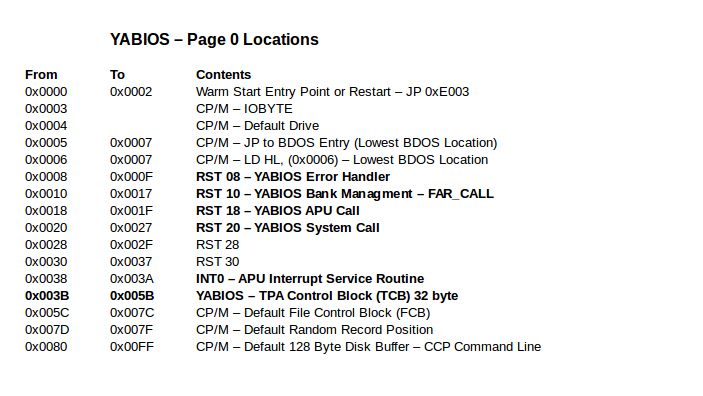
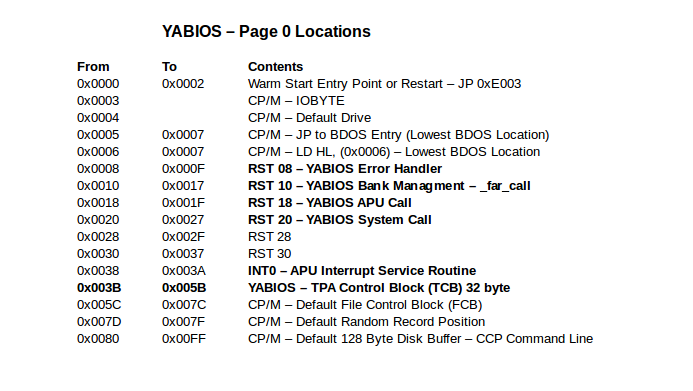
squash CA1 to 4kB

Changed region(s): [[0.0303, 0.1535, 0.8788, 0.89], [0.1515, 0.0614, 0.5455, 0.1228]]

diff --git a/yabios/README.MD b/yabios/README.MD
@@ -8,7 +8,7 @@ It is my attempt to create a perfect mix of "ancient" and  modern computing tech
 
 The YAZ180 is supported by the Z88dk and it is designed to work with both traditional CP/M v2.2 applications and modern Z88dk C compiled applications.
 
-The YABIOS supports CP/M 2.2 Page 0 compatibility, with an underlying Fat32 File System, and allows access to Z88dk libraries, with APU, FatFs, and time libraries, through the use of `RST+DEFB` or `RST+DEFW` short calls, and will include a `__far_call` capability to allow applications to grow beyond 56kB.
+The YABIOS supports CP/M 2.2 Page 0 compatibility, with an underlying Fat32 File System, and allows access to Z88dk libraries, with APU, FatFs, and time libraries, through the use of `RST+DEFB` or `RST+DEFW` short calls, and will include a `_far_call` capability to allow applications to grow beyond 60kB.
 
 ## Design Concept
 
@@ -34,13 +34,13 @@ The location of the `RST` short calls is defined within the YABIOS Page 0.
 </table>
 </div>
 
-As the YAZ180 has multiple BANK locations in which to run an application, one design goal is to minimise (remove) dependency on the application being loaded into a particular BANK. This will require the development of BANK relative addressing for `__far_call` and other system functionalities, if an application is to be larger than 56kB, or is to be independent of its initial BANK location.
+As the YAZ180 has multiple BANK locations in which to run an application, one design goal is to minimise (remove) dependency on the application being loaded into a particular BANK. This will require the development of BANK relative addressing for `_far_call` and other system functionalities, if an application is to be larger than 60kB, or is to be independent of its initial BANK location.
 
 ## Development Path
 
 As the development of YABIOS is going to take some effort and time, the work will be divided into phases, each providing measurable and useable outcomes. Each phase should provide services to the following phases, upon which that development phase will build.
 
-Each one of these intems will need to be implemented.
+Each one of these items will need to be implemented.
 
 ### Phase 1 - z88dk application support
 
@@ -82,7 +82,7 @@ Each one of these intems will need to be implemented.
 
 The organisation below is an attempt to provide a logical memory map for YAZ180, which allows simple bank management. Yet, is flexible enough to support multi-tasking from a RTOS in the future.
 
-BANK0 contains YABIOS (CRT0, boot code, and Z88dk library code) together with a RAM system heap. The COMMON AREA 1 space from 0xE000 to 0xFFFF is intended to hold banking code, system calls, interrupt service routines, system buffers, and a system stack.
+BANK0 contains YABIOS (CRT0, boot code, and Z88dk library code) together with a RAM system heap. The COMMON AREA 1 space from 0xF000 to 0xFFFF is intended to hold banking code, system calls, interrupt service routines, system buffers, and a system stack.
 
 Additional BANK1 through BANK12 are intended to hold user code, whether CP/M or Z88dk C programs, both are supported through system calls to BANK0.
 
@@ -455,7 +455,7 @@ When the user function `__load_bin_user` is implemented, access to BANK0 through
 
 ## User System Interfaces
 
-Access to YABIOS is designed to be through calls to the `RST20` System Call, and the `RST18` APU Call. Access to BANKED applications (greater than 56kB in size) is designed to be through the `RST10` `__far_call`. General management of the YAZ180 is to be done through the Command Line Interface.
+Access to YABIOS is designed to be through calls to the `RST20` System Call, and the `RST18` APU Call. Access to BANKED applications (greater than 60kB in size) is designed to be through the `RST10` `_far_call`. General management of the YAZ180 is to be done through the Command Line Interface.
 
 Errors will be reported to an Error handler function located at `RST8`, registered for each application, as desired.
 

diff --git a/README.MD b/README.MD
@@ -156,7 +156,7 @@ The PROGRAMMING MODE hardware recognises that data is available on the USB paral
 
 There is no need to follow this logical address space mapping. This is what I prefer. You can do whatever you want.
 
-The organisation below is an attempt to provide a BANK0 containing YABIOS (CRT0, boot code, and Z88dk library code) together with a RAM system heap. The COMMON AREA 1 space from 0xE000 to 0xFFFF is intended to hold banking code, system calls, interrupt service routines, system buffers, and a system stack.
+The organisation below is an attempt to provide a BANK0 containing YABIOS (CRT0, boot code, and Z88dk library code) together with a RAM system heap. The COMMON AREA 1 space from 0xF000 to 0xFFFF is intended to hold banking code, system call forwarding, interrupt service routines, system buffers, and a system stack.
 
 Additional BANK1 through BANK12 are intended to hold user code, whether CP/M or Z88dk C programs, both are supported through system calls to BANK0.
 
@@ -267,7 +267,7 @@ Please see here for status of [work in progress](https://github.com/feilipu/yaz1
 
 Currently the YAZ180 is initialised to load [NASCOM Basic](https://github.com/feilipu/NASCOM_BASIC_4.7/tree/master/yaz180_NascomBasic56k), and within the [Z88dk]((https://github.com/z88dk/z88dk/tree/master/libsrc/_DEVELOPMENT/target/yaz180)) using the ROM, and RAM models.
 
-The YABIOS supports CP/M 2.2 Page 0 compatibility, with an underlying Fat32 File System, and will be extended to allow access to Z88dk libraries, and APU and floating point libraries, through the use of `RST+DEFW` short calls, and will include a `__far_call` capability to allow applications to grow beyond 56kB.
+The YABIOS supports CP/M 2.2 Page 0 compatibility, with an underlying Fat32 File System, and will be extended to allow access to Z88dk libraries, and APU and floating point libraries, through the use of `RST+DEFW` short calls, and will include a `_far_call` capability to allow applications to grow beyond 60kB.
 
 ## Z88dk
 
